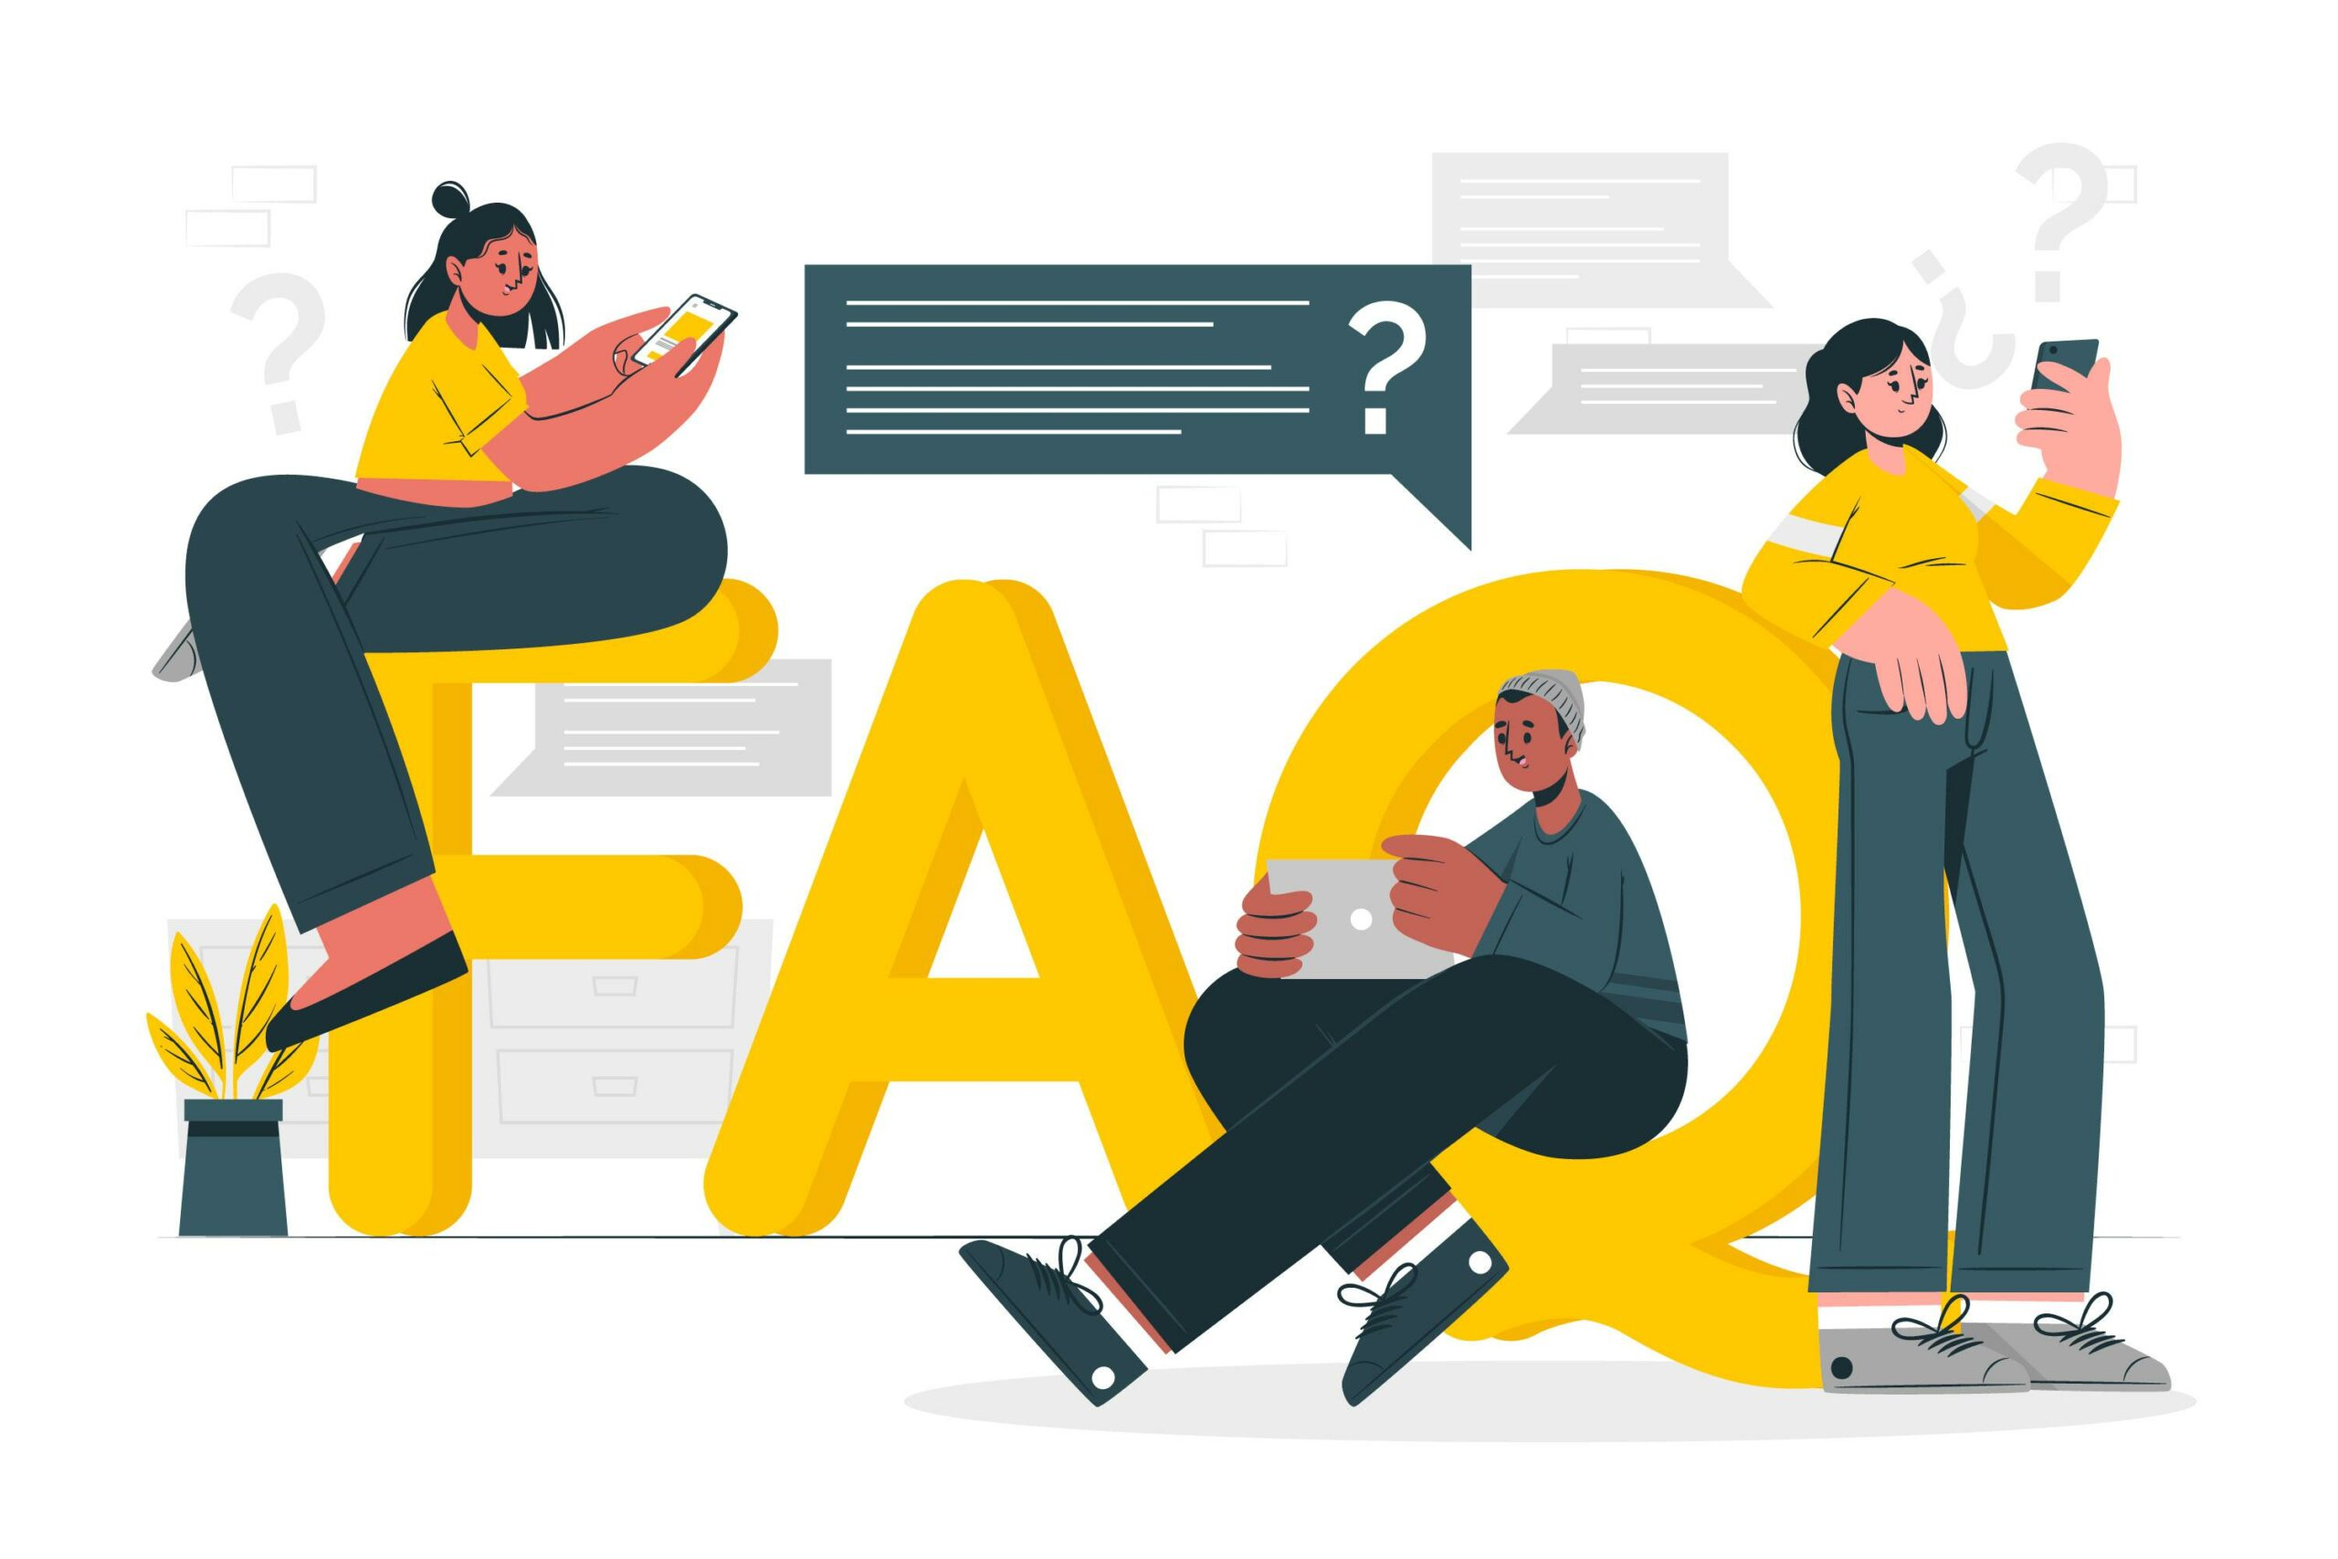
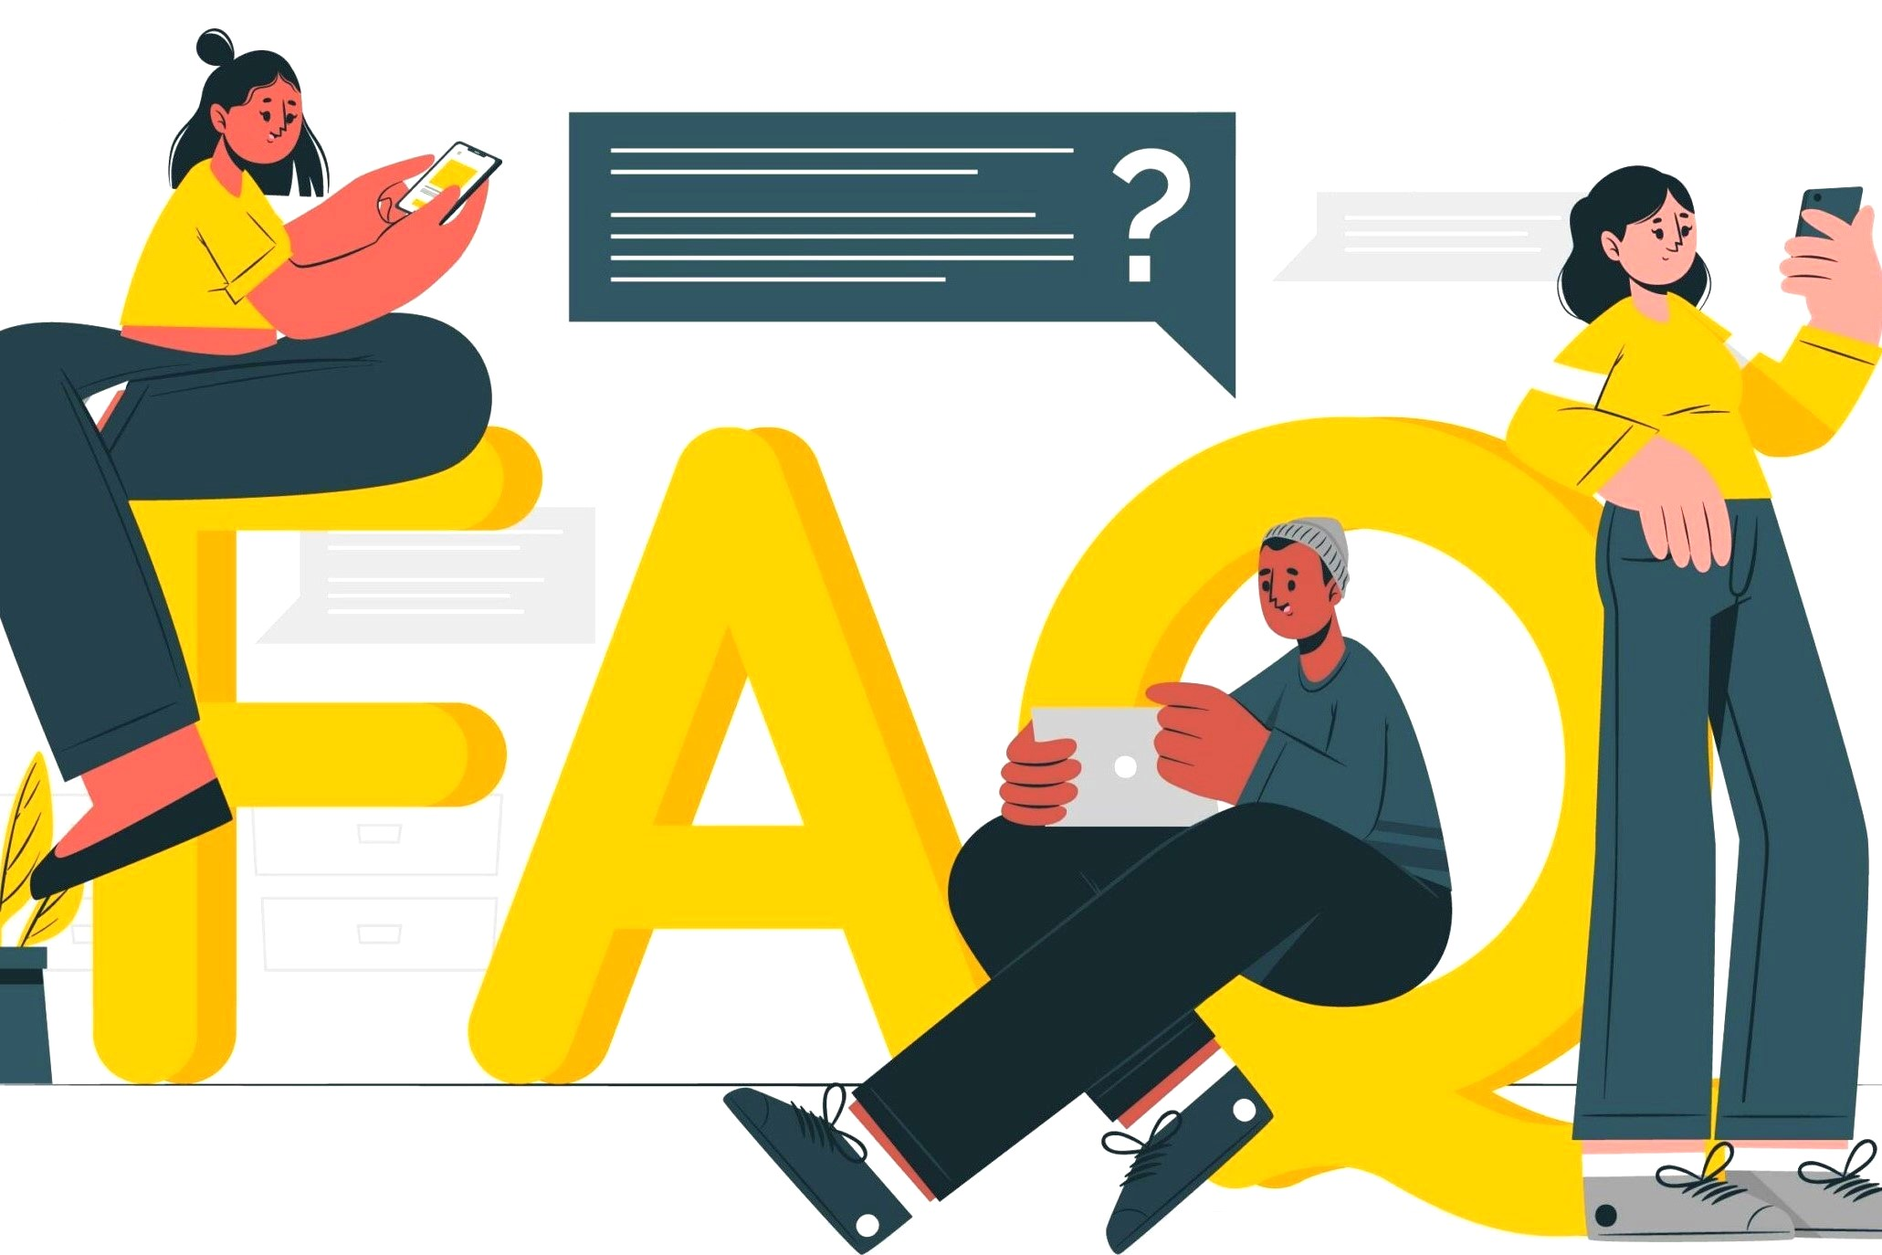
background image

diff --git a/style/stylr.css b/style/stylr.css
@@ -1,3 +1,6 @@
+:root {
+  --color: #fbff00;
+}
 * {
   margin: 0;
   padding: 0;
@@ -18,7 +21,7 @@ body {
 .header {
   width: 100%;
   height: 80px;
-  background-color: blueviolet;
+  background-color: rgb(31 97 100);
   display: flex;
   align-items: center;
 }
@@ -32,7 +35,29 @@ body {
   margin-left: 30px;
   justify-content: center;
 }
+.menu ul li:hover {
+  color: var(--color);
+  cursor: pointer;
+}
 .icon img {
   /* justify-content: flex-end; */
   margin-left: 10px;
+}
+.image {
+  background-image: url("../image/1.jpg");
+  /* opacity: 0.1; */
+  background-size: cover;
+  width: 100%;
+  height: 750px;
+}
+p:first-child {
+  color: rgb(0, 0, 0);
+  text-align: center;
+  margin-top: 90px;
+  font-size: 50px;
+}
+p:last-child {
+  color: rgb(39, 39, 39);
+  margin-top: 400px;
+  margin-left: 130px;
 }

diff --git a/index.html b/index.html
@@ -38,6 +38,11 @@
         />
       </div>
     </div>
-    <!-- <div class="ima"></div> -->
+    <div class="image">
+      <div class="p-class">
+        <p>You can ask any question you have...</p>
+        <p>We hope you are satisfied with our store site</p>
+      </div>
+    </div>
   </body>
 </html>
